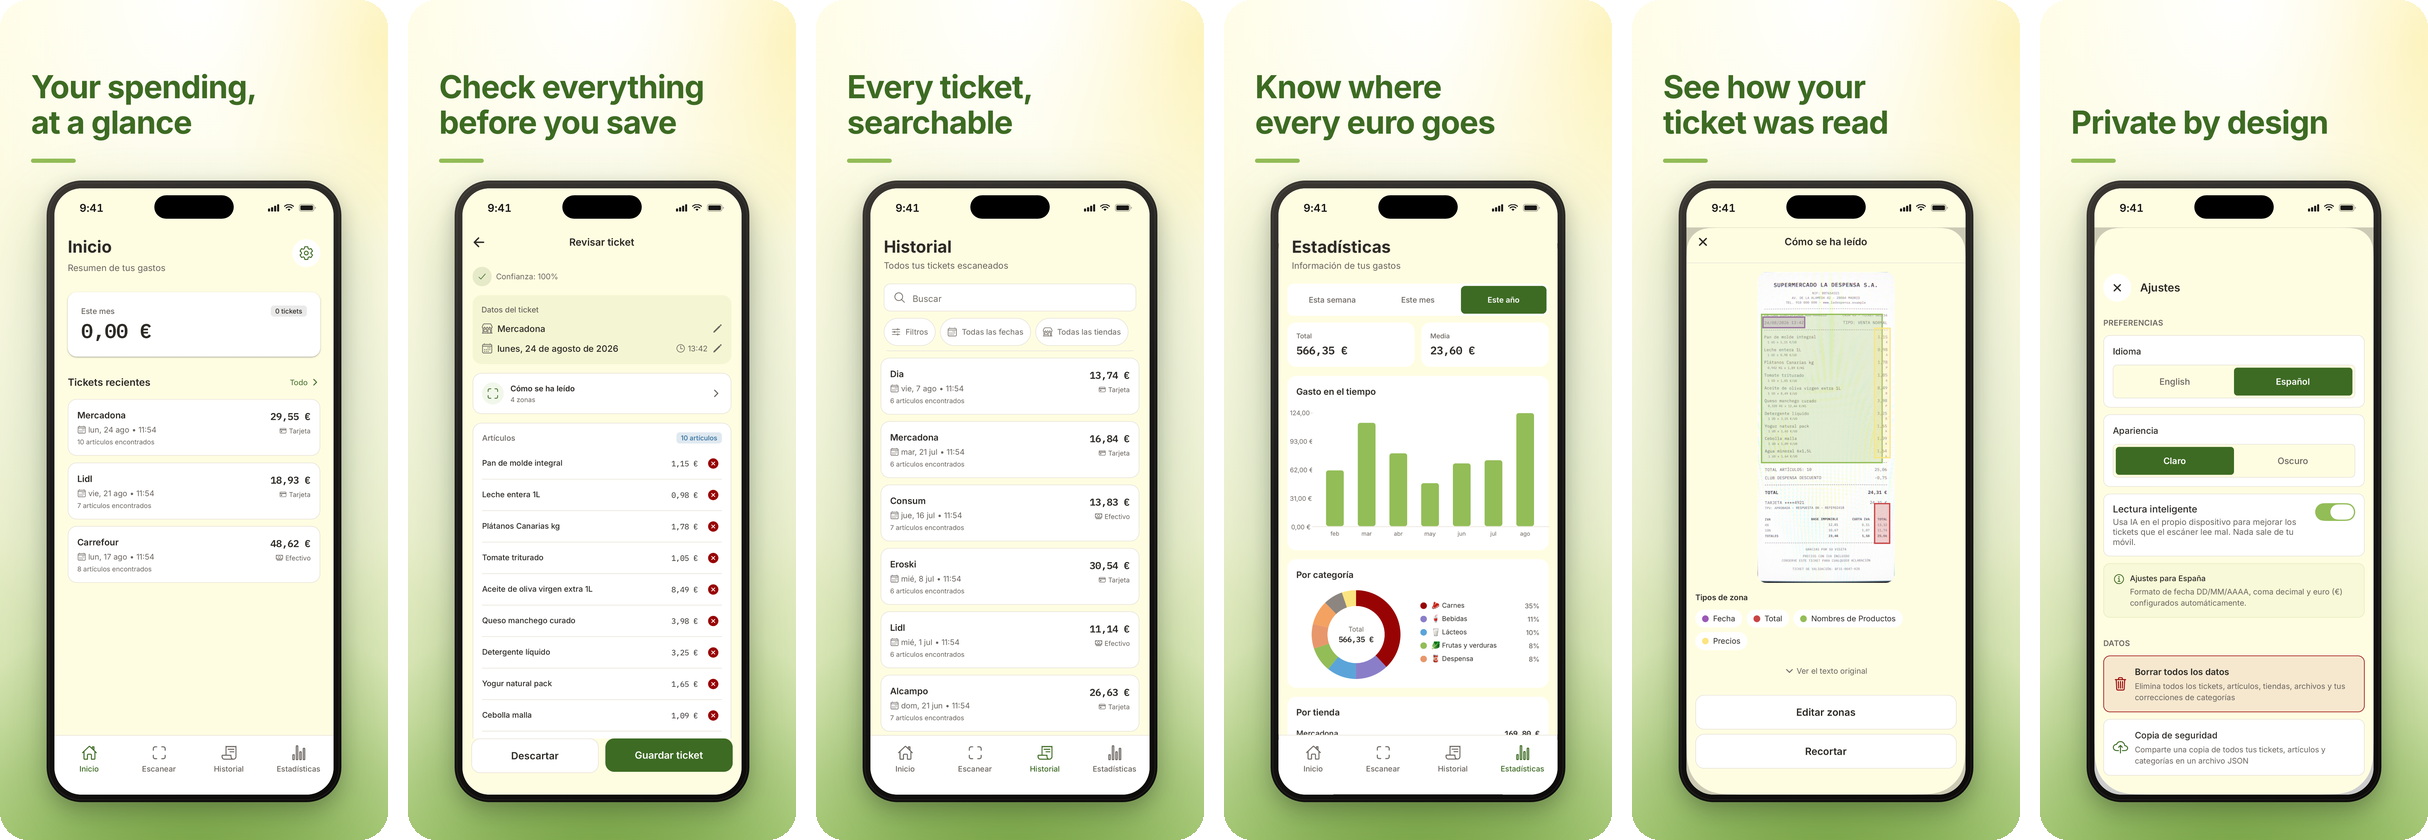
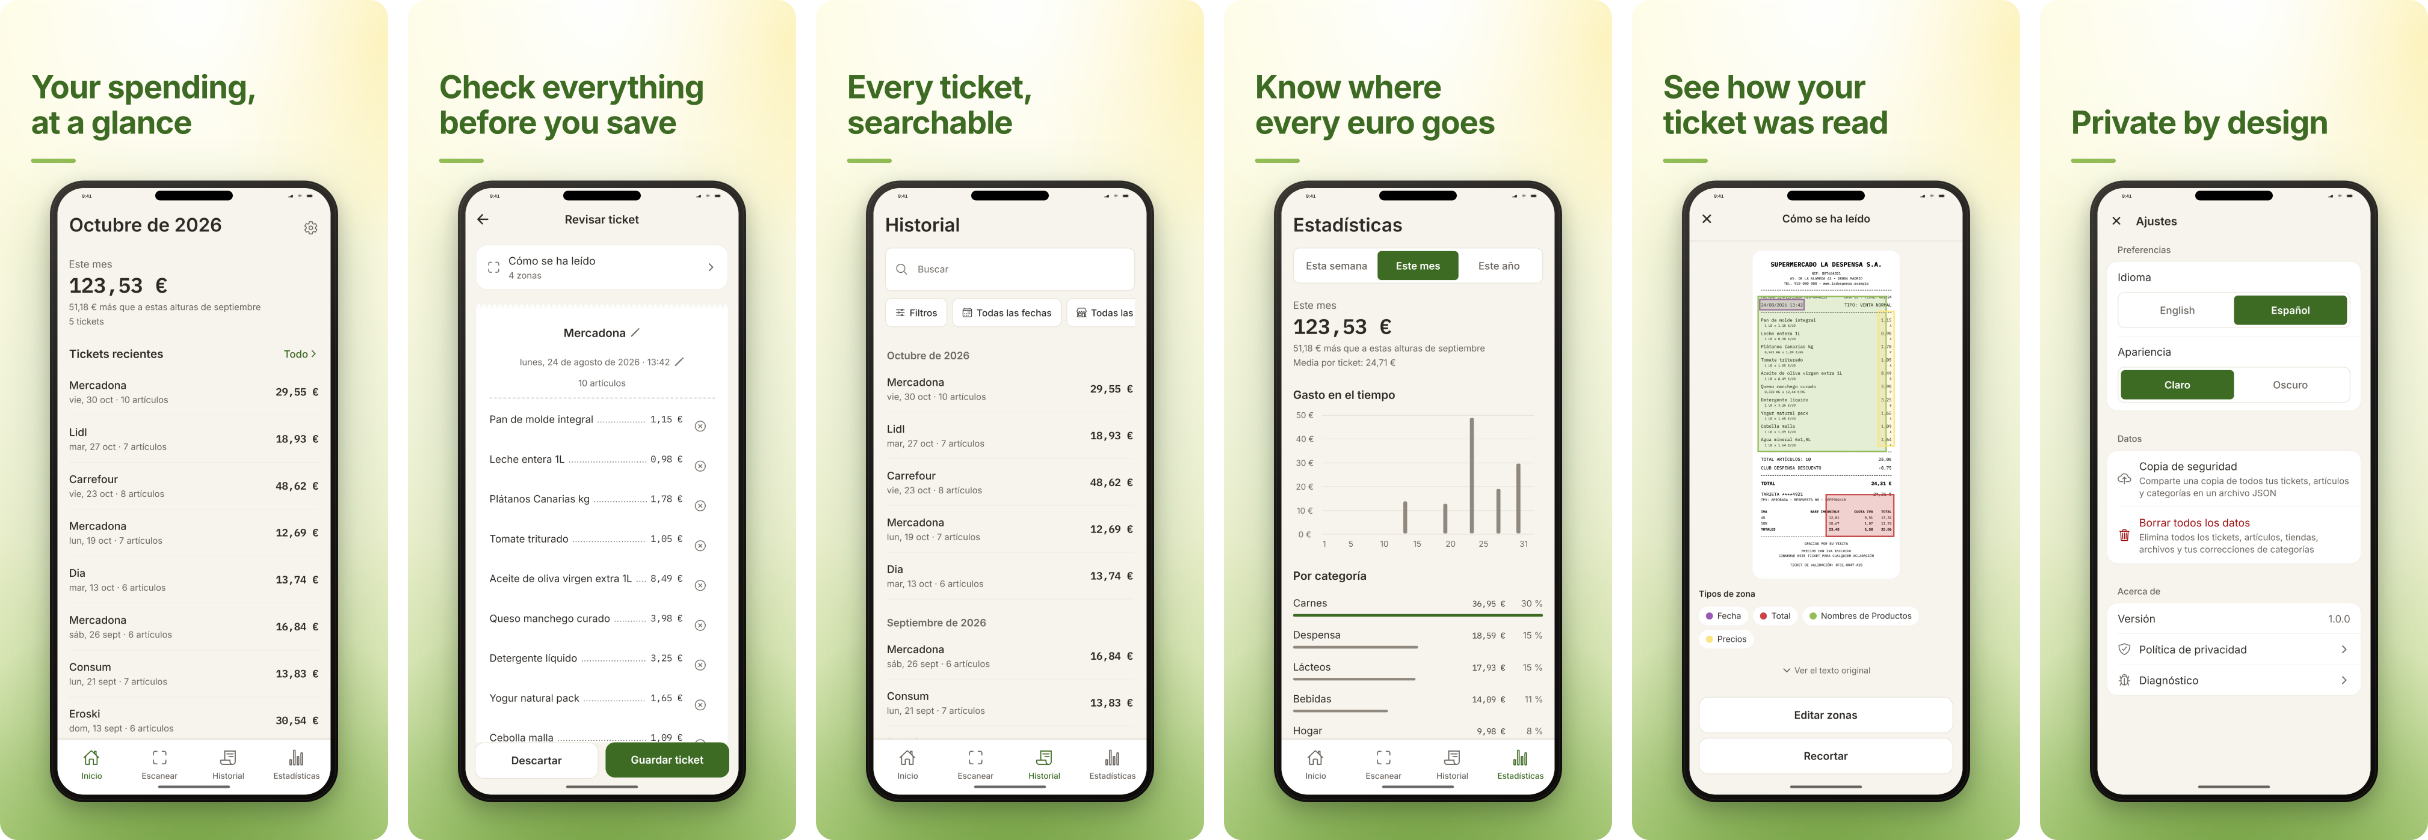
docs: refresh the screenshots with the redesign and document npm run shots:all

diff --git a/README.md b/README.md
@@ -106,7 +106,7 @@ src/
   theme/       # Palette & type
   i18n/        # Translations
 scripts/
-  store-screenshots/  # Frames raw captures into the store graphics
+  store-screenshots/  # Captures, frames and lays out the store screenshots
   fixtures/           # Scrubs a recorded capture into a chain fixture
 modules/
   qr-decoder/         # Native QR decoding for fiscal codes
@@ -121,6 +121,14 @@ npm run check      # ESLint + Prettier
 ```
 
 CI runs all three on every push. If you change the parser, extend the fixtures in `src/services/ocr/__tests__/`. Chain fixtures under `src/config/countries/*/__tests__/fixtures/` test themselves; `npm run fixture` makes one from a recorded capture (see [CONTRIBUTING.md](CONTRIBUTING.md)).
+
+**Store screenshots** regenerate end to end with `npm run shots:all`, with no manual step. It
+renders the sample ticket and boots two dedicated Android emulators (a phone and a tablet, created
+upright on first use so your development AVDs are never touched). It builds a release APK in
+screenshot mode (`EXPO_PUBLIC_SCREENSHOTS=1`, wiped from `android/` when the run ends so no store
+build can pick it up), seeds demo data, opens each screen through `cestapp:///screenshots` deep
+links and captures it once the screen stops moving. Finally it frames the captures for the App
+Store and Google Play in English and Spanish, and lays out the panorama at the top of this README.
 
 Releases build locally and ship through fastlane. The `fastlane/` folder holds credentials and store assets, so it stays out of the repo.
 

diff --git a/CLAUDE.md b/CLAUDE.md
@@ -134,6 +134,7 @@ app/                           # Screens (Expo Router)
   _layout.tsx                  # Root layout with providers
   onboarding.tsx               # First-time user setup
   settings.tsx                 # App settings screen
+  screenshots.tsx              # Store screenshot steps; inert unless EXPO_PUBLIC_SCREENSHOTS=1
   (tabs)/                      # Main tab navigation
     _layout.tsx                # Tab bar configuration
     index.tsx                  # Dashboard screen
@@ -689,6 +690,7 @@ npx tsc --noEmit
 | `npm run check`        | Run both lint and format:check                        |
 | `npm test`             | Run Jest unit tests                                   |
 | `npm run bench`        | Score reading on real captures (`BENCH_DIR=<folder>`) |
+| `npm run shots:all`    | Regenerate store screenshots and the README panorama  |
 
 ### Pre-commit Hook
 
